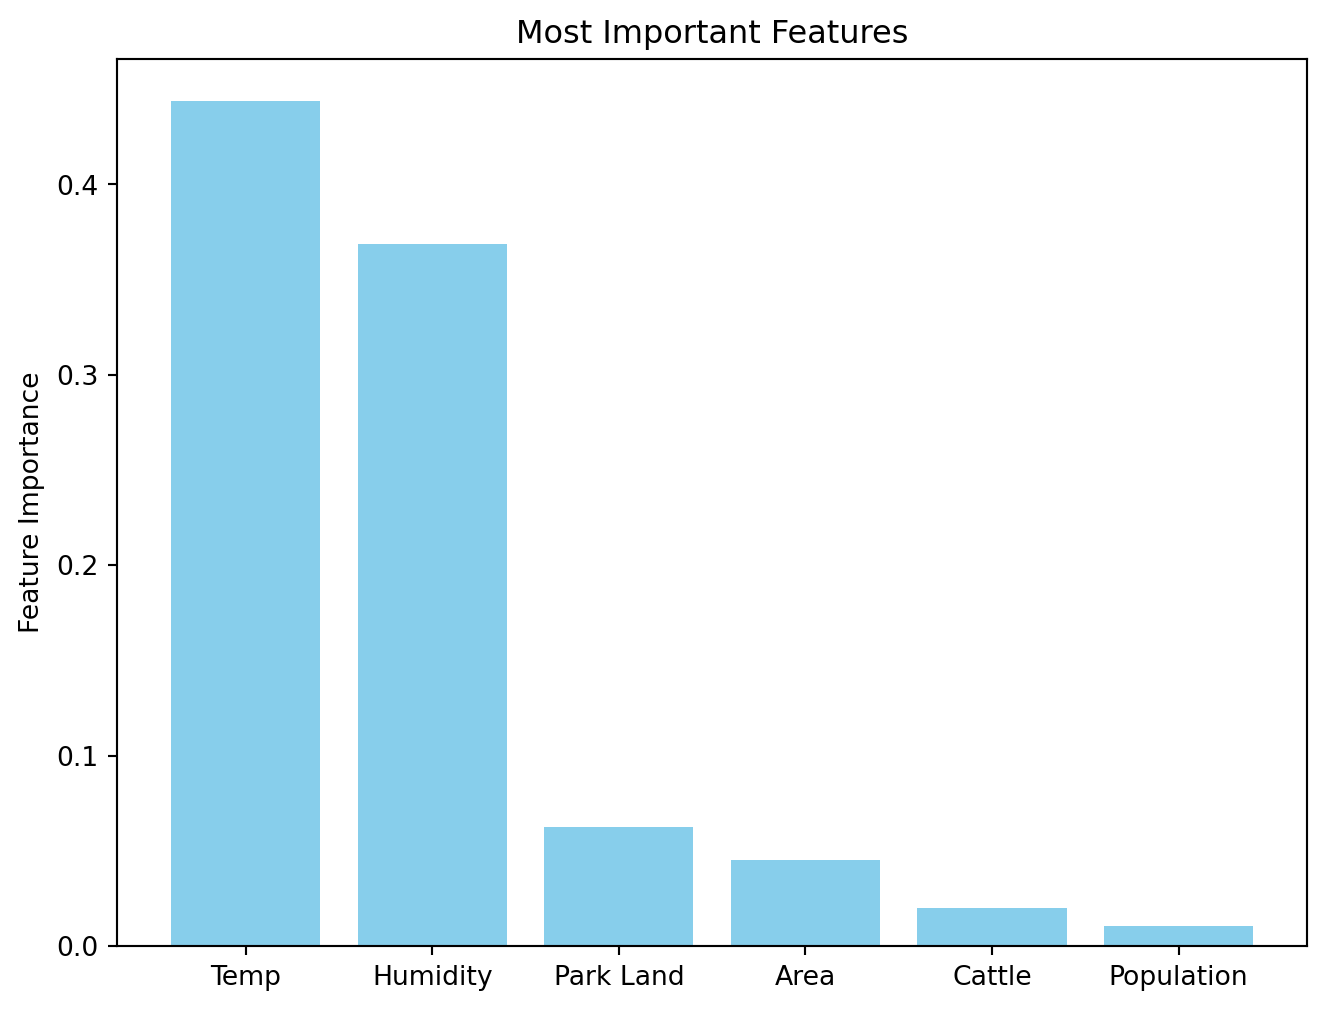
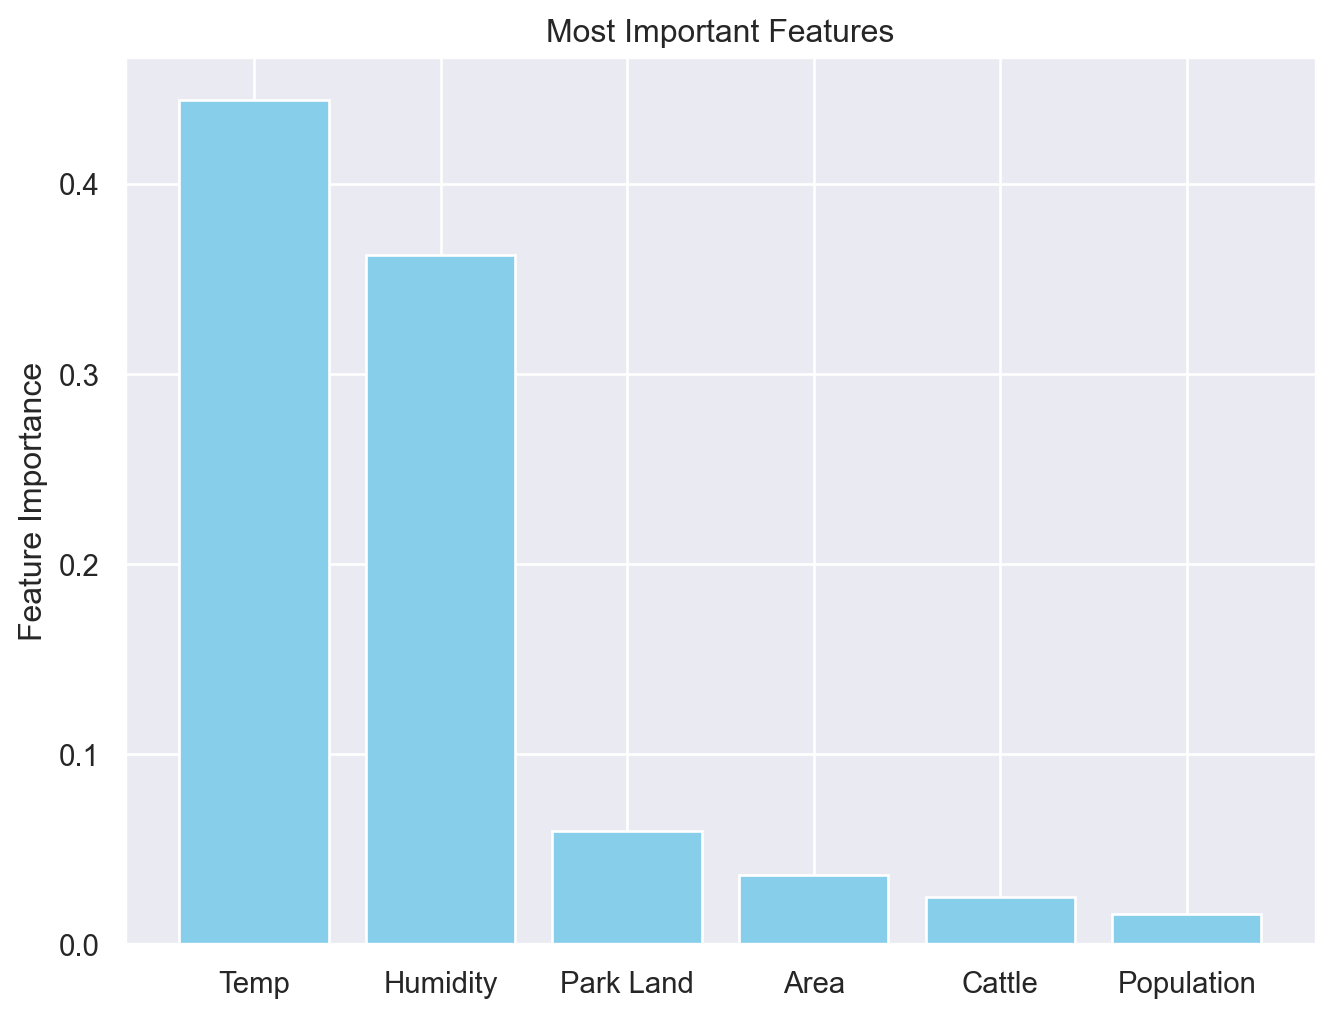
Built site for gh-pages

diff --git a/capstone.html b/capstone.html
@@ -255,7 +255,7 @@ window.Quarto = {
   <li><a href="#additional-resources---machine-learning-metrics-table" id="toc-additional-resources---machine-learning-metrics-table" class="nav-link" data-scroll-target="#additional-resources---machine-learning-metrics-table">Additional Resources - Machine Learning Metrics Table</a></li>
   </ul></li>
   </ul>
-<div class="quarto-other-links"><h2>Other Links</h2><ul><li><a href="https://www.airnow.gov"><i class="bi bi-link-45deg"></i>Airnow Open Data</a></li></ul></div><div class="quarto-code-links"><h2>Code Links</h2><ul><li><a href="SWEETVIZ_REPORT.html"><i class="bi bi-file-code"></i>Sweetviz Analysis Report</a></li><li><a href="your_report2.html"><i class="bi bi-file-code"></i>ydata Analysis Report</a></li></ul></div></nav>
+<div class="quarto-other-links"><h2>Other Links</h2><ul><li><a href="https://www.airnow.gov"><i class="bi bi-link-45deg"></i>Airnow Open Data</a></li></ul></div><div class="quarto-code-links"><h2>Code Links</h2><ul><li><a href="SWEETVIZ_REPORT.html"><i class="bi bi-file-code"></i>Sweetviz Analysis Report</a></li></ul></div></nav>
 </nav>
 <div id="quarto-sidebar-glass" class="quarto-sidebar-collapse-item" data-bs-toggle="collapse" data-bs-target=".quarto-sidebar-collapse-item"></div>
 <!-- margin-sidebar -->
@@ -587,8 +587,8 @@ window.Quarto = {
 <p>An initial Random Forest Model run with the selected features returns the following Cohen Kappa score and accuracy:</p>
 <div id="cks-accuracy" class="cell" data-execution_count="23">
 <div class="cell-output cell-output-stdout">
-<pre><code>Cohen Kappa Score:  0.494855990098252
-Accuracy:  0.7457811649428416</code></pre>
+<pre><code>Cohen Kappa Score:  0.4540612461353385
+Accuracy:  0.7272727272727273</code></pre>
 </div>
 </div>
 <div class="quarto-figure quarto-figure-center">
@@ -651,7 +651,7 @@ Accuracy:  0.7457811649428416</code></pre>
 <tr class="even">
 <td data-quarto-table-cell-role="th">1</td>
 <td>RF_model__max_depth</td>
-<td>9</td>
+<td>8</td>
 </tr>
 <tr class="odd">
 <td data-quarto-table-cell-role="th">2</td>
@@ -661,7 +661,7 @@ Accuracy:  0.7457811649428416</code></pre>
 <tr class="even">
 <td data-quarto-table-cell-role="th">3</td>
 <td>RF_model__min_samples_leaf</td>
-<td>3</td>
+<td>4</td>
 </tr>
 <tr class="odd">
 <td data-quarto-table-cell-role="th">4</td>
@@ -671,17 +671,17 @@ Accuracy:  0.7457811649428416</code></pre>
 <tr class="even">
 <td data-quarto-table-cell-role="th">5</td>
 <td>RF_model__n_estimators</td>
-<td>112</td>
+<td>147</td>
 </tr>
 <tr class="odd">
 <td data-quarto-table-cell-role="th">6</td>
 <td>aqi_transformer__categories__max_categories</td>
-<td>19</td>
+<td>5</td>
 </tr>
 <tr class="even">
 <td data-quarto-table-cell-role="th">7</td>
 <td>aqi_transformer__categories__min_frequency</td>
-<td>17</td>
+<td>8</td>
 </tr>
 </tbody>
 </table>
@@ -693,8 +693,8 @@ Accuracy:  0.7457811649428416</code></pre>
 <p>Using these hyperparameters, we reach an accuracy of over 70%.</p>
 <div id="predict-x_test-final" class="cell" data-execution_count="35">
 <div class="cell-output cell-output-stdout">
-<pre><code>Cohen Kappa Score:  0.45841885491690726
-Accuracy:  0.713663581927055</code></pre>
+<pre><code>Cohen Kappa Score:  0.46261234174643673
+Accuracy:  0.7158410451823626</code></pre>
 </div>
 </div>
 <div class="quarto-figure quarto-figure-center">
@@ -730,30 +730,30 @@ Accuracy:  0.713663581927055</code></pre>
 </tr>
 <tr class="even">
 <td data-quarto-table-cell-role="th">26-50</td>
-<td>0.784799</td>
+<td>0.785470</td>
 <td>0.869442</td>
-<td>0.824955</td>
+<td>0.825326</td>
 <td>1057.0</td>
 </tr>
 <tr class="odd">
 <td data-quarto-table-cell-role="th">51-75</td>
-<td>0.611888</td>
-<td>0.581395</td>
-<td>0.596252</td>
+<td>0.613240</td>
+<td>0.584718</td>
+<td>0.598639</td>
 <td>602.0</td>
 </tr>
 <tr class="even">
 <td data-quarto-table-cell-role="th">76-100</td>
-<td>0.357143</td>
-<td>0.185185</td>
-<td>0.243902</td>
+<td>0.387755</td>
+<td>0.175926</td>
+<td>0.242038</td>
 <td>108.0</td>
 </tr>
 <tr class="odd">
 <td data-quarto-table-cell-role="th">101-200</td>
-<td>0.578947</td>
-<td>0.366667</td>
-<td>0.448980</td>
+<td>0.568182</td>
+<td>0.416667</td>
+<td>0.480769</td>
 <td>60.0</td>
 </tr>
 <tr class="even">
@@ -775,7 +775,7 @@ Accuracy:  0.713663581927055</code></pre>
 <div class="cell-output cell-output-display">
 <div>
 <figure class="figure">
-<p><img src="capstone_files/figure-html/feature-importance-output-1.png" id="feature-importance" width="663" height="505" class="figure-img"></p>
+<p><img src="capstone_files/figure-html/feature-importance-output-1.png" id="feature-importance" width="667" height="509" class="figure-img"></p>
 </figure>
 </div>
 </div>
